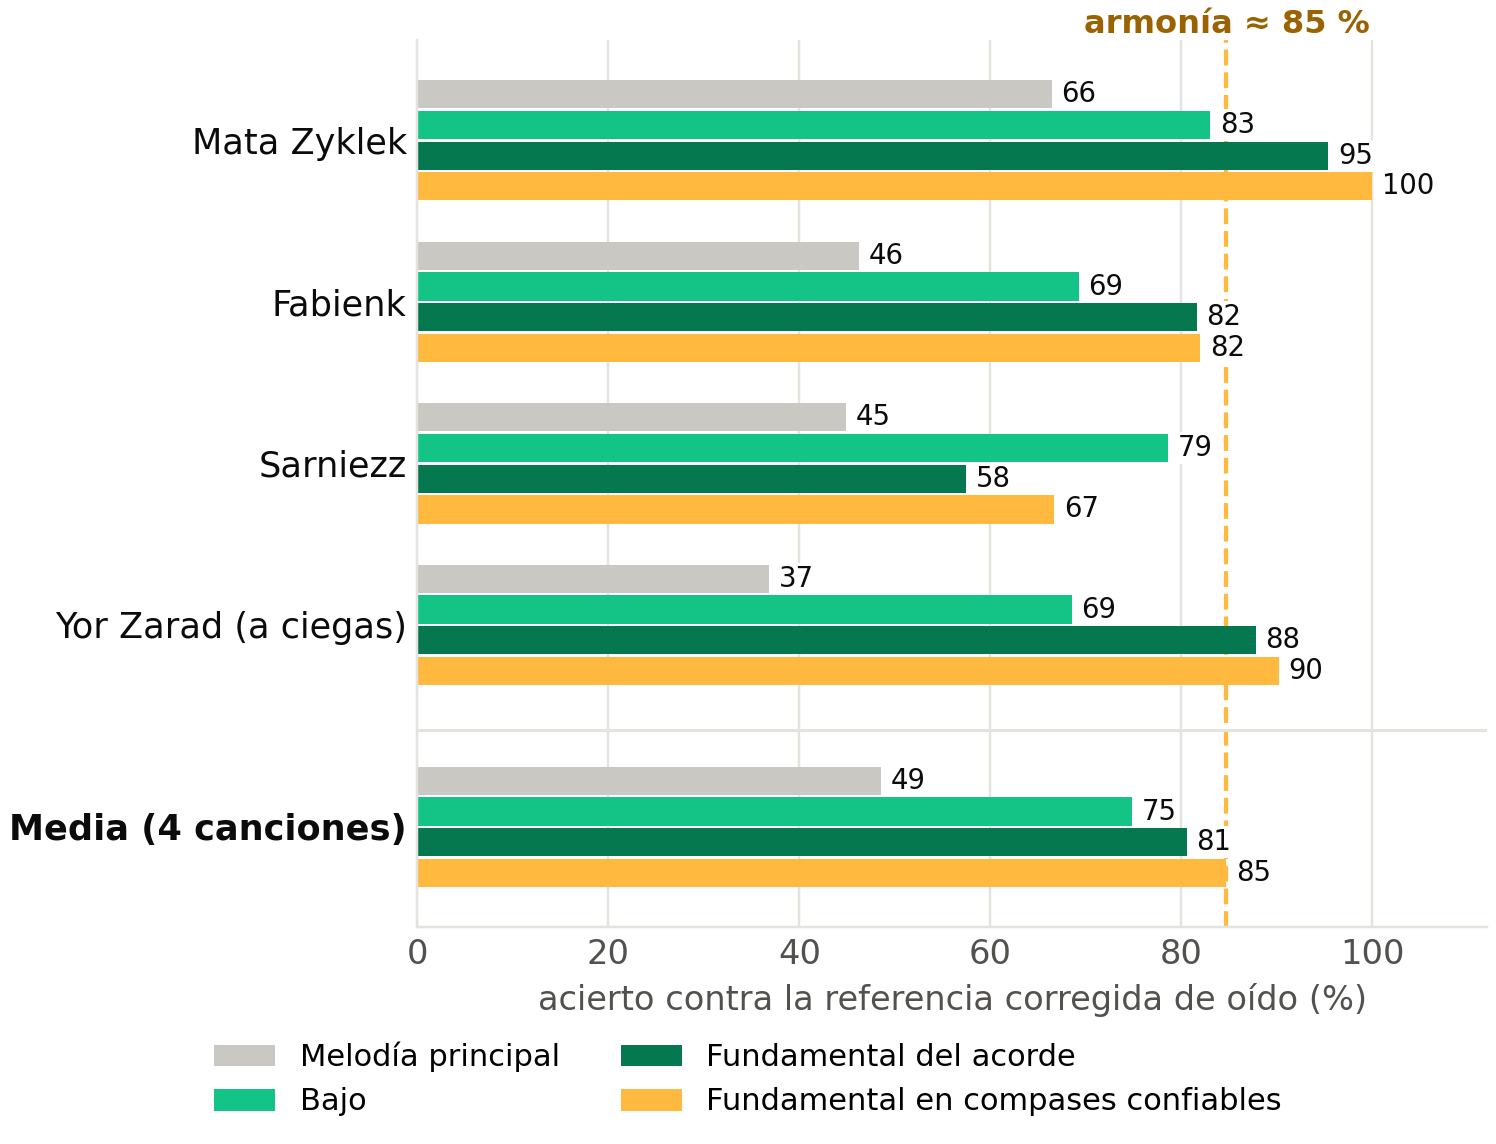
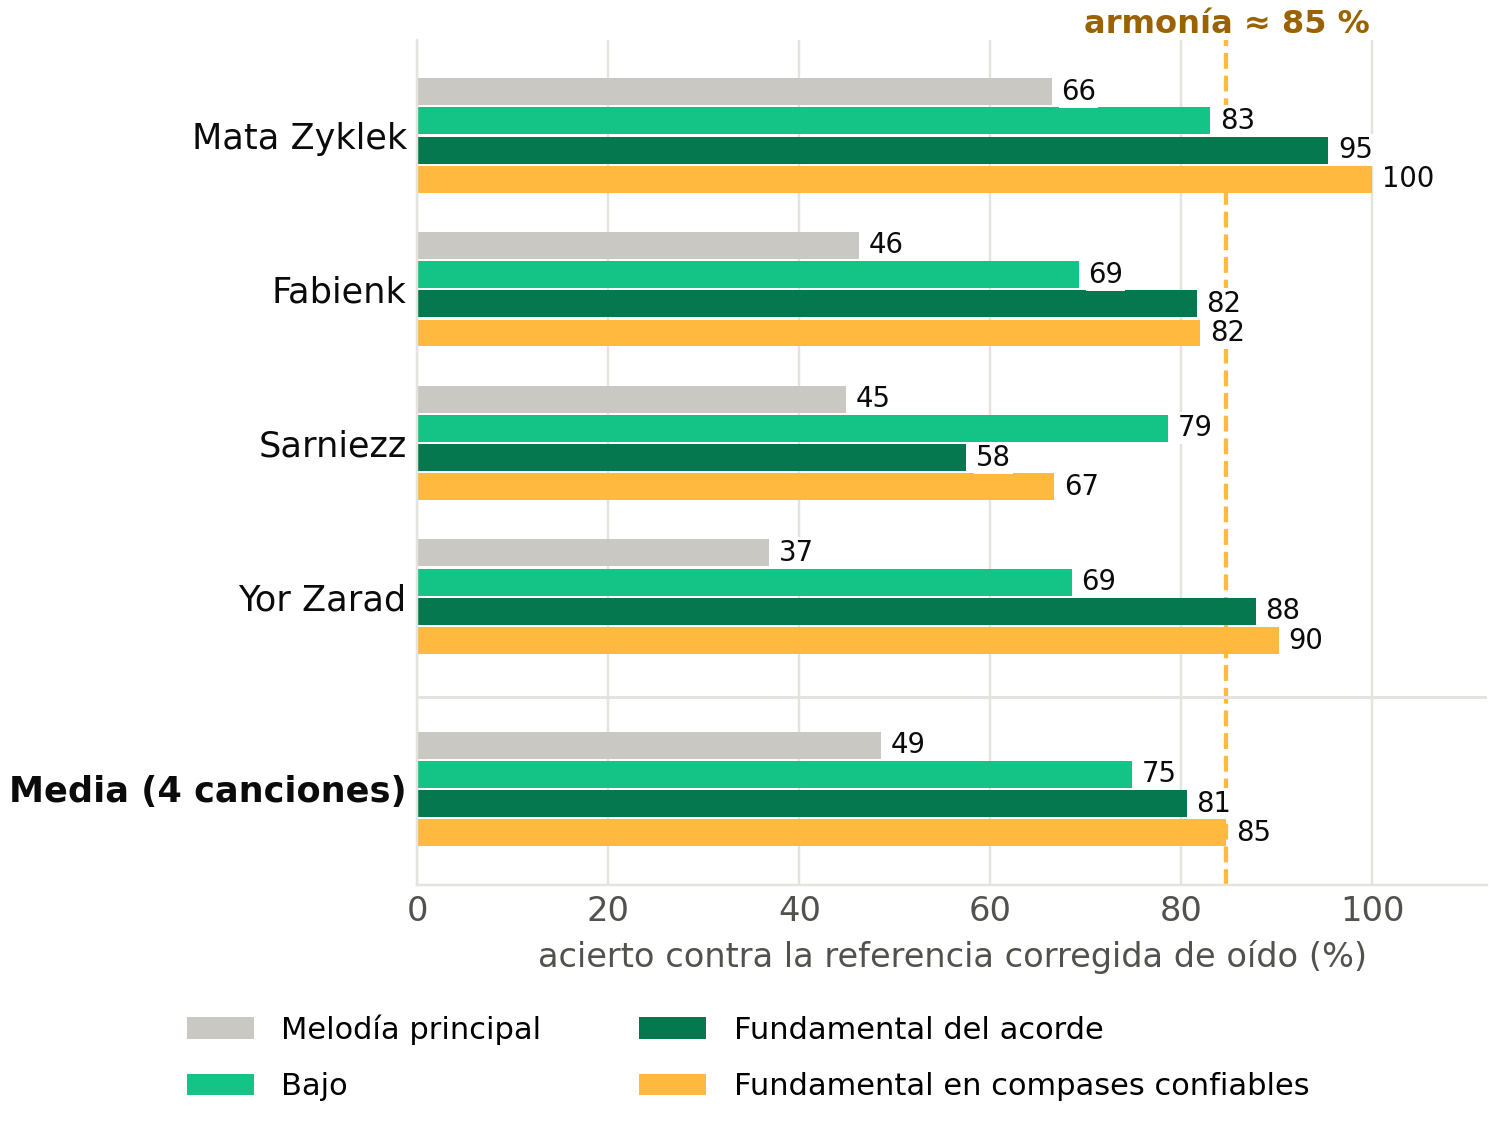
...

Changed region(s): [[0.0, 0.0612, 0.9532, 0.979], [0.123, 0.8872, 0.369, 0.979]]

diff --git a/presentacion/index.html b/presentacion/index.html
@@ -69,7 +69,7 @@
       </div>
       <div class="fig sin-borde">
         <svg id="mastiles" viewBox="0 0 440 250" width="440" height="250" role="img" aria-label="Mástil de 12 y de 24 trastes por octava"></svg>
-        <figcaption>Una octava del mástil: 12 trastes en la guitarra común, 24 en la de Khn (cada traste nuevo = ¼ de tono, 50 cents).</figcaption>
+        <figcaption style="font-size:13.5px">Una octava del mástil: 12 trastes en la guitarra común, 24 en la de Khn (cada traste nuevo = ¼ de tono, 50 cents).</figcaption>
       </div>
     </div>
   </div>
@@ -84,35 +84,35 @@
   <div class="area">
     <div class="cols c-fig-texto">
       <div class="fig sin-borde">
-        <svg viewBox="0 0 470 330" width="470" height="330" role="img" aria-label="Mapa de influencias por fuente: la banda, analistas de YouTube y comparación propia">
-          <g font-family="Ancizar Sans" font-size="13" text-anchor="middle" fill="#29272d">
+        <svg viewBox="-6 -6 492 364" width="492" height="364" style="max-width:100%; height:auto" role="img" aria-label="Mapa de influencias por fuente: la banda, analistas de YouTube y comparación propia">
+          <g font-family="Ancizar Sans" font-size="15" text-anchor="middle" fill="#29272d">
             <!-- líneas al centro de cada nodo, del color de su fuente -->
-            <line x1="235" y1="160" x2="235" y2="20" stroke="#06784f" stroke-width="1.6"/>
-            <line x1="235" y1="160" x2="78" y2="50" stroke="#06784f" stroke-width="1.6"/>
-            <line x1="235" y1="160" x2="392" y2="50" stroke="#06784f" stroke-width="1.6"/>
-            <line x1="235" y1="160" x2="62" y2="136" stroke="#06784f" stroke-width="1.6"/>
-            <line x1="235" y1="160" x2="408" y2="136" stroke="#06784f" stroke-width="1.6"/>
-            <line x1="235" y1="160" x2="78" y2="220" stroke="#06784f" stroke-width="1.6"/>
-            <line x1="235" y1="160" x2="392" y2="220" stroke="#8a8984" stroke-width="1.6" stroke-dasharray="5 4"/>
-            <line x1="235" y1="160" x2="112" y2="296" stroke="#ffb93e" stroke-width="1.6"/>
-            <line x1="235" y1="160" x2="358" y2="296" stroke="#ffb93e" stroke-width="1.6"/>
-            <!-- nodos: nombre, dimensión que explicaría y, si es de un analista, quién lo dice -->
-            <rect x="173" y="0" width="124" height="40" rx="13" fill="#eef6f2" stroke="#06784f"/><text x="235" y="17" font-weight="700">Rock turco</text><text x="235" y="32" font-size="10.5" fill="#6b6a66">escalas del makam</text>
-            <rect x="16" y="30" width="124" height="40" rx="13" fill="#eef6f2" stroke="#06784f"/><text x="78" y="47" font-weight="700">Gentle Giant</text><text x="78" y="62" font-size="10.5" fill="#6b6a66">capas entrelazadas</text>
-            <rect x="330" y="30" width="124" height="40" rx="13" fill="#eef6f2" stroke="#06784f"/><text x="392" y="47" font-weight="700">Frank Zappa</text><text x="392" y="62" font-size="10.5" fill="#6b6a66">fraseo «cubista»</text>
-            <rect x="0" y="116" width="124" height="40" rx="13" fill="#eef6f2" stroke="#06784f"/><text x="62" y="133" font-weight="700">Loops y techno</text><text x="62" y="148" font-size="10.5" fill="#6b6a66">forma en ciclos</text>
-            <rect x="346" y="116" width="124" height="40" rx="13" fill="#eef6f2" stroke="#06784f"/><text x="408" y="133" font-weight="700">John Scofield</text><text x="408" y="148" font-size="10.5" fill="#6b6a66">armonía de jazz</text>
-            <rect x="16" y="200" width="124" height="40" rx="13" fill="#eef6f2" stroke="#06784f"/><text x="78" y="217" font-weight="700">5 y 7 tiempos</text><text x="78" y="232" font-size="10.5" fill="#6b6a66">compases impares</text>
-            <rect x="330" y="200" width="124" height="40" rx="13" fill="#fff" stroke="#8a8984" stroke-dasharray="5 4"/><text x="392" y="217" font-weight="700">Primus</text><text x="392" y="232" font-size="10.5" fill="#6b6a66">comparación propia</text>
-            <rect x="37" y="270" width="150" height="52" rx="13" fill="#fff4df" stroke="#ffb93e"/><text x="112" y="287" font-weight="700">King Gizzard</text><text x="112" y="302" font-size="10.5" fill="#6b6a66">¼ de tono en el rock</text><text x="112" y="315" font-size="10.5" font-style="italic" fill="#9a6200">según Mathémusique</text>
-            <rect x="283" y="270" width="150" height="52" rx="13" fill="#fff4df" stroke="#ffb93e"/><text x="358" y="287" font-weight="700">Maqam hijaz</text><text x="358" y="302" font-size="10.5" fill="#6b6a66">escala árabe en ¼ de tono</text><text x="358" y="315" font-size="10.5" font-style="italic" fill="#9a6200">según David Bennett</text>
+            <line x1="240" y1="172" x2="240" y2="24" stroke="#06784f" stroke-width="1.8"/>
+            <line x1="240" y1="172" x2="82" y2="60" stroke="#06784f" stroke-width="1.8"/>
+            <line x1="240" y1="172" x2="398" y2="60" stroke="#06784f" stroke-width="1.8"/>
+            <line x1="240" y1="172" x2="78" y2="150" stroke="#06784f" stroke-width="1.8"/>
+            <line x1="240" y1="172" x2="402" y2="150" stroke="#06784f" stroke-width="1.8"/>
+            <line x1="240" y1="172" x2="82" y2="244" stroke="#06784f" stroke-width="1.8"/>
+            <line x1="240" y1="172" x2="398" y2="244" stroke="#8a8984" stroke-width="1.8" stroke-dasharray="5 4"/>
+            <line x1="240" y1="172" x2="118" y2="320" stroke="#ffb93e" stroke-width="1.8"/>
+            <line x1="240" y1="172" x2="362" y2="320" stroke="#ffb93e" stroke-width="1.8"/>
+            <!-- nodos: nombre, dimensión que explicaría y, si es de un analista, quién lo dice (con margen: los bordes no se cortan) -->
+            <rect x="165" y="1" width="150" height="46" rx="13" fill="#eef6f2" stroke="#06784f" stroke-width="1.3"/><text x="240" y="21" font-weight="700">Rock turco</text><text x="240" y="38" font-size="12" fill="#6b6a66">escalas del makam</text>
+            <rect x="6" y="37" width="152" height="46" rx="13" fill="#eef6f2" stroke="#06784f" stroke-width="1.3"/><text x="82" y="57" font-weight="700">Gentle Giant</text><text x="82" y="74" font-size="12" fill="#6b6a66">capas entrelazadas</text>
+            <rect x="322" y="37" width="152" height="46" rx="13" fill="#eef6f2" stroke="#06784f" stroke-width="1.3"/><text x="398" y="57" font-weight="700">Frank Zappa</text><text x="398" y="74" font-size="12" fill="#6b6a66">fraseo «cubista»</text>
+            <rect x="2" y="127" width="152" height="46" rx="13" fill="#eef6f2" stroke="#06784f" stroke-width="1.3"/><text x="78" y="147" font-weight="700">Loops y techno</text><text x="78" y="164" font-size="12" fill="#6b6a66">forma en ciclos</text>
+            <rect x="326" y="127" width="152" height="46" rx="13" fill="#eef6f2" stroke="#06784f" stroke-width="1.3"/><text x="402" y="147" font-weight="700">John Scofield</text><text x="402" y="164" font-size="12" fill="#6b6a66">armonía de jazz</text>
+            <rect x="6" y="221" width="152" height="46" rx="13" fill="#eef6f2" stroke="#06784f" stroke-width="1.3"/><text x="82" y="241" font-weight="700">5 y 7 tiempos</text><text x="82" y="258" font-size="12" fill="#6b6a66">compases impares</text>
+            <rect x="322" y="221" width="152" height="46" rx="13" fill="#fff" stroke="#8a8984" stroke-width="1.3" stroke-dasharray="5 4"/><text x="398" y="241" font-weight="700">Primus</text><text x="398" y="258" font-size="12" fill="#6b6a66">comparación propia</text>
+            <rect x="31" y="290" width="174" height="60" rx="13" fill="#fff4df" stroke="#ffb93e" stroke-width="1.3"/><text x="118" y="310" font-weight="700">King Gizzard</text><text x="118" y="326" font-size="12" fill="#6b6a66">¼ de tono en el rock</text><text x="118" y="341" font-size="12" font-style="italic" fill="#9a6200">según Mathémusique</text>
+            <rect x="275" y="290" width="174" height="60" rx="13" fill="#fff4df" stroke="#ffb93e" stroke-width="1.3"/><text x="362" y="310" font-weight="700">Maqam hijaz</text><text x="362" y="326" font-size="12" fill="#6b6a66">escala árabe en ¼ de tono</text><text x="362" y="341" font-size="12" font-style="italic" fill="#9a6200">según David Bennett</text>
             <!-- centro -->
-            <circle cx="235" cy="160" r="54" fill="#06784f"/>
-            <text x="235" y="155" fill="#fff" font-weight="700" font-size="14">Angine de</text>
-            <text x="235" y="173" fill="#fff" font-weight="700" font-size="14">Poitrine</text>
+            <circle cx="240" cy="172" r="58" fill="#06784f"/>
+            <text x="240" y="167" fill="#fff" font-weight="700" font-size="16.5">Angine de</text>
+            <text x="240" y="187" fill="#fff" font-weight="700" font-size="16.5">Poitrine</text>
           </g>
         </svg>
-        <figcaption>Verde: lo que dice la banda · amarillo: analistas en YouTube · gris: comparación propia.</figcaption>
+        <figcaption style="font-size:13.5px">Verde: lo que dice la banda · amarillo: analistas en YouTube · gris: comparación propia.</figcaption>
       </div>
       <div class="pila aireada" style="justify-content:center">
         <div class="tarjeta">
@@ -149,7 +149,7 @@ Primus: comparación propia; no decir aún para qué sirve.</aside>
            automáticos redondean el cuarto de tono al semitono más cercano. Para esta música, medir en 12 es borrar lo que la hace distinta.</p>
       </div>
       <div class="regla24" data-tam="grande"></div>
-      <p class="leyenda" style="margin-top:-4px">Las 24 clases de altura de una octava: amarillo, las 12 de siempre; azul, las 12 en cuarto de tono que un análisis en 12 notas pierde.</p>
+      <p class="leyenda" style="margin-top:-4px; font-size:13.5px">Las 24 clases de altura de una octava: amarillo, las 12 de siempre; azul, las 12 en cuarto de tono que un análisis en 12 notas pierde.</p>
       <div class="cols c3" style="height:auto; gap:20px">
         <div class="tarjeta"><h3>1 · Una herramienta</h3><p>Transcripción y análisis armónico abiertos en 24-EDO, desde el audio.</p></div>
         <div class="tarjeta"><h3>2 · Un método</h3><p>Comparación con corpus reales de estilos, calibrada para no exagerar la novedad.</p></div>
@@ -614,7 +614,7 @@ Primus: comparación propia; no decir aún para qué sirve.</aside>
 <section class="contenido">
   <span class="numero"></span>
   <h2>¿Qué detecta la metodología usada?</h2>
-  <p class="subtitulo">Resultados · por qué la armonía es fiable aunque la melodía no lo sea tanto</p>
+  <p class="subtitulo">Resultados · por qué la armonía nos sirve</p>
   <div class="area alta ancha">
     <div class="cols" style="grid-template-columns: 1.2fr 0.8fr; gap:18px">
       <figure class="fig sin-borde" style="margin:0"><img src="img/acierto_herramienta.png" alt="Acierto de la herramienta por canción">
@@ -842,7 +842,7 @@ Primus: comparación propia; no decir aún para qué sirve.</aside>
     const svg = document.getElementById("mastiles"); if (!svg) return;
     let s = "";
     [[12, 30, "Guitarra común · 12 trastes por octava"], [24, 150, "Khn · 24 trastes por octava"]].forEach(([n, y, rotulo]) => {
-      s += `<text x="10" y="${y - 8}" font-family="Ancizar Sans" font-size="13" font-weight="700" fill="#06784f">${rotulo}</text>`;
+      s += `<text x="10" y="${y - 9}" font-family="Ancizar Sans" font-size="16" font-weight="700" fill="#06784f">${rotulo}</text>`;
       s += `<rect x="10" y="${y}" width="420" height="62" rx="4" fill="#f4efe6" stroke="#c9b79c"/>`;
       for (let k = 0; k <= n; k++) {
         const x = 10 + 420 * (1 - Math.pow(2, -k / n)) / (1 - 0.5);   // trastes reales: se acercan hacia el puente

diff --git a/scripts/comparacion/figuras_presentacion.py b/scripts/comparacion/figuras_presentacion.py
@@ -203,14 +203,16 @@ def figura_acierto(filas: list[dict]):
     for yy, f in zip(y, filas):
         if f.get("fundamental") is None:
             ax.text(1, yy - alto, "sin referencia armónica", va="center", fontsize=9, color=MUTED)
-    ax.set_yticks(y, [f["cancion"] + (" (a ciegas)" if f["cancion"] == "Yor Zarad" else "") for f in filas], fontsize=11.5, color=TINTA)
+    ax.set_yticks(y, [f["cancion"] for f in filas], fontsize=11.5, color=TINTA)
     if len(medidas) > 1:
         ax.get_yticklabels()[-1].set_fontweight("bold")
     ax.set_xlim(0, 112)
     ax.set_xticks([0, 20, 40, 60, 80, 100])
     ax.tick_params(axis="x", labelsize=11)
     ax.set_xlabel("acierto contra la referencia corregida de oído (%)", fontsize=11, color=GRIS)
-    fig.legend(loc="outside lower center", ncol=2, frameon=False, fontsize=10)
+    # Leyenda aireada: más espacio entre filas, columnas y muestra-texto, y separada del rótulo del eje.
+    fig.legend(loc="outside lower center", ncol=2, frameon=False, fontsize=10, labelspacing=0.9,
+               columnspacing=3.2, handletextpad=0.9, handlelength=2.2, borderpad=0.9)
     return fig
 
 

diff --git a/docs/guion_defensa.md b/docs/guion_defensa.md
@@ -299,28 +299,39 @@ de las nueve canciones de King Gizzard; la dórica no aparece en ningún corpus.
 
 ## 21 · Síntesis: ritmo, forma y estilo
 
-«La repetición muestra picos en 20 y 28 corcheas: ciclos de dos compases de 5 y de 7, justo los tiempos que menciona la
-banda y que planteamos en la hipótesis. Sarniezz y Utzp, en cambio, van en 4. En la clasificación por bloques, el rock
-gana 8 de 24, el radif 7 y en 9 no hay vecino. El vecino más cercano es King Gizzard: en armonía, Angor es idéntica a
-"Flying Microtonal Banana".»
+**3a · ciclos métricos**
+«Esta gráfica mide cuánto se repite la música consigo misma cuando la comparo ℓ corcheas después. Un pico alto y
+aislado es un ciclo largo y estable. Mata Zyklek tiene su pico en 20 corcheas, que son dos compases de 5. Fabienk lo
+tiene en 28, dos compases de 7. Son justo los tiempos que menciona la banda y que planteamos en la hipótesis.»
 
-- **21·1, ciclos métricos:** cuánto se repiten alturas y ataques ℓ corcheas después. Un pico alto y aislado es un ciclo
-  largo y estable.
-- **21·2, clasificación por corpus:** el percentil medio de cada canción frente a cada corpus; la fila «Álbum» es la
-  media.
-- **Si preguntan por el 83 de Mata Zyklek en clásica:** no es un parecido real. Kostka-Payne tiene solo 46 piezas y
-  solo armonía; en un corpus chico y disperso casi todo parece típico, por eso el test no cuenta los corpus de menos de
-  100 piezas (clásica, pop e indostánica salen atenuados con *). Además, la armonía de Mata Zyklek es un pedal: 89 % del
-  tiempo sobre I y 6 % sobre V, un reparto tónica-dominante que cualquier corpus tonal tiene (en Kostka-Payne, I y V
-  suman el 63 % del tiempo). Por eso también sale alta en rock (80) y jazz (73).
-- **21·3, qué corpus gana cada bloque:** en cuántas canciones gana cada corpus en cada bloque (rock 8 de 24, radif 7,
-  sin vecino 9).
+**3b · clasificación por corpus**
+«Cada casilla es el percentil de tipicidad de una canción frente a un corpus: 0 es atípica, 50 es típica y 100 es muy
+típica. El número de abajo separa ese promedio por bloque: A es armonía, E escala, ¼ cuartos de tono y M metro. Así se
+ve de dónde sale cada color. Por ejemplo, Sarniezz da 34 en rock, pero solo por el metro, porque su armonía da 0. Las
+columnas rayadas son corpus de menos de 100 piezas, que no cuentan para el veredicto.»
+
+**3c · qué corpus gana cada bloque**
+«Si cuento qué corpus gana cada bloque, el rock gana 8 de 24, el radif 7 y en 9 casos no hay vecino. El rock gana sobre
+todo en armonía y metro, y el radif en cuartos de tono. El vecino más cercano en general es King Gizzard: en armonía,
+Angor es idéntica a "Flying Microtonal Banana".»
+
+**Si preguntan…**
+- **…por qué solo dos canciones en la 3a:** «Son las que muestran los ciclos de 5 y 7. Sarniezz y Utzp van en 4, con
+  picos en 16 y 32 corcheas. Las seis están en el informe de ciclos.»
+- **…por el 83 de Mata Zyklek en clásica:** «No es un parecido real. Kostka-Payne tiene solo 46 piezas y solo
+  armonía, y en un corpus chico casi todo parece típico; por eso va rayado y no cuenta. Además, la armonía de Mata
+  Zyklek es un pedal: 89 % del tiempo sobre I y 6 % sobre V, un reparto tónica-dominante que tiene cualquier corpus
+  tonal (en Kostka-Payne, I y V suman el 63 % del tiempo). Por eso también sale alta en rock (80) y en jazz (73).»
 
 > **Términos**
 > - **Ciclo métrico:** cada cuántas corcheas se repite el patrón; 20 corcheas son dos compases de 5.
-> - **Bloque de rasgos:** un grupo de medidas de una misma dimensión: armonía, escala, cuartos de tono o metro.
-> - **Ganar un bloque:** que un corpus sea el más parecido a la canción en esa dimensión.
-> - **Vecino más cercano:** la pieza o banda que más se parece según todas las medidas juntas.
+> - **Percentil de tipicidad:** el porcentaje de piezas del corpus que están igual o más lejos de su centro que la
+>   canción.
+> - **Bloque de rasgos:** las medidas de una misma dimensión: armonía, escala, cuartos de tono o metro.
+> - **Ganar un bloque:** que un corpus sea el más parecido a la canción en esa dimensión, con percentil de al menos 5.
+> - **Sin vecino:** ningún corpus llega al percentil 5 en ese bloque.
+> - **Radif:** el repertorio clásico de la música persa, organizado en modos (dastgah) con intervalos menores que el
+>   semitono.
 > - **«Flying Microtonal Banana»:** álbum de King Gizzard tocado con guitarras de cuartos de tono.
 
 ---
@@ -332,41 +343,46 @@ gana 8 de 24, el radif 7 y en 9 no hay vecino. El vecino más cercano es King Gi
 1. **La armonía no encaja en ningún estilo.** El 37.5 % de los casos queda sin vecino, frente al 5.2 % en rock real.
    Ninguna canción pasa de 17.7 sobre 50, y el método no exagera: con rock real casi siempre encuentra vecino.
 2. **La melodía es lo nuevo.** Dos grados en cuarto de tono concentran entre el 48 y el 82 % de los cuartos de tono. Son
-   grados de la escala, en dos familias. La frigia (♭2+, ♭6+) es la más común en el radif persa y en King Gizzard; la
+   grados de la escala, en dos familias. La frigia (♭2+, ♭6+) es la más común en el radif persa y en King Gizzard. La
    dórica (7+, 6+, ♭3+) no la tiene ningún corpus medido.
 3. **El conjunto es un híbrido.** Tiene compases de 5 y 7 tiempos, como dice la banda; armonía de rock modal; cuartos de
-   tono repartidos como en el radif, y King Gizzard como vecino más próximo. Sarniezz y Fabienk no tienen vecino ni
-   siquiera ahí. (El parecido con el radif viene del bloque de cuartos de tono, no del de escala en 12 notas, que no
-   discrimina; y es de escala, no de influencia: ver `verosimilitud_por_bloques.md`.)
+   tono repartidos como en el radif; y King Gizzard como vecino más próximo. Sarniezz y Fabienk no tienen vecino ni
+   siquiera ahí.
 
-La respuesta a la pregunta es que no es un estilo existente: es una recombinación nueva de lenguajes que ya existen, con
-un elemento propio, los cuartos de tono como grados fijos.»
+La respuesta a la pregunta es que no es un estilo existente. Es una recombinación nueva de lenguajes que ya existen, con
+un elemento propio: los cuartos de tono como grados fijos.»
+
+**Si preguntan por el radif:** «El parecido viene del bloque de cuartos de tono, no del de escala en 12 notas, que no
+discrimina. Y es un parecido de escala, no de influencia.» (Ver [`verosimilitud_por_bloques.md`](verosimilitud_por_bloques.md).)
 
 > **Términos**
 > - **Híbrido:** algo que combina rasgos de varios estilos.
 > - **Rock modal:** rock que usa modos (dórico, frigio, mixolidio) en lugar de la escala mayor o menor clásica.
+> - **Familia de escala:** grupo de canciones que ponen sus cuartos de tono en los mismos grados.
+> - **Grado fijo:** una nota de la escala que vuelve en cada vuelta del loop, no un adorno de paso.
 
 ---
 
 ## 23 · Trabajo futuro
 
-«El siguiente paso es un tabroll que mejore solo, para cualquier canción. El ciclo tendría cuatro pasos:
+«El siguiente paso es un tabroll que mejore solo, para cualquier canción. Es un ciclo de cuatro pasos:
 
 1. sintetizar partituras de Guitar Pro con cuartos de tono;
 2. entrenar con ellas un transcriptor en 24-EDO;
 3. transcribir canciones nuevas;
 4. validar con referencias de oído.
 
-Así habría datos sin límite y sin transcribir a mano. Además:
+Así habría datos sin límite, sin transcribir a mano. Además:
 
 - **Melodía:** tratar las vueltas del looper como varias tomas de la misma frase, para separar las capas.
-- **Armonía:** elegir el centro tonal de forma robusta en cualquier canción; hoy falla en «Tommy the Cat».
+- **Armonía:** elegir el centro tonal de forma robusta en cualquier canción; hoy falla en "Tommy the Cat".
 - **Datos y producto:** un corpus de maqam árabe, un tabroll web interactivo, otros músicos microtonales como King
   Gizzard y Sevish, y el uso en la enseñanza.»
 
 > **Términos**
 > - **Sintetizar:** generar con el computador el audio de una partitura.
 > - **Entrenar:** enseñar a un modelo con ejemplos cuya respuesta ya se conoce.
-> - **Toma:** cada grabación de una misma frase. Varias tomas permiten promediar y limpiar.
+> - **Toma:** cada grabación de una misma frase; varias tomas permiten promediar y limpiar.
 > - **Robusto:** que funcione bien también en casos difíciles o distintos.
+> - **Maqam:** sistema de modos de la música árabe, con intervalos de cuarto de tono.
 > - **Sevish:** compositor de música electrónica microtonal.

diff --git a/docs/leyendas_figuras.md b/docs/leyendas_figuras.md
@@ -63,6 +63,10 @@ fundamental del acorde acierta el 85 % en los compases confiables y la melodía 
 Versión anterior, reemplazada: «Contra las referencias corregidas de oído (corridas congeladas). Yor Zarad: prueba a
 ciegas, melodía 37 % y fundamental 88 %.» Se cambió para mostrar la media de las cuatro canciones.
 
+En la gráfica, el rótulo «Yor Zarad (a ciegas)» quedó solo como «Yor Zarad», porque confundía antes de explicar
+el arbitraje. Para el escrito: la de Yor Zarad es la referencia hecha a ciegas, la primera armada sin mirar ninguna
+salida del cuaderno (ver [`evaluacion_melodia.md`](evaluacion_melodia.md)).
+
 ## Diapositiva 19 · Armonía
 
 ### Vista conjunta (diapositiva eliminada)
